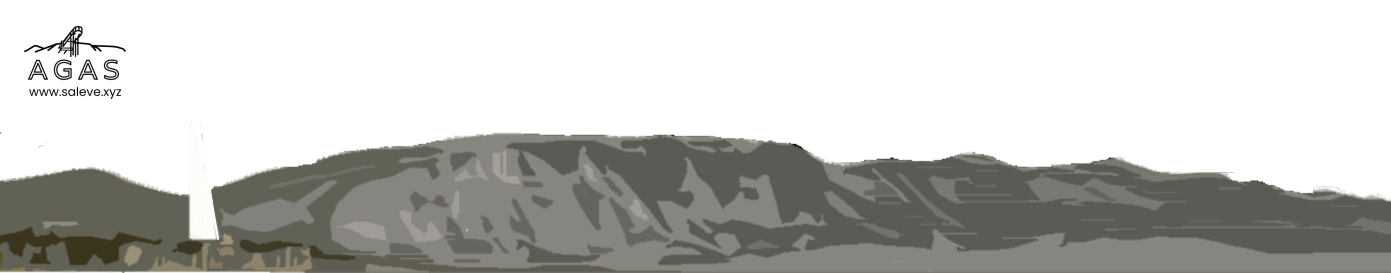
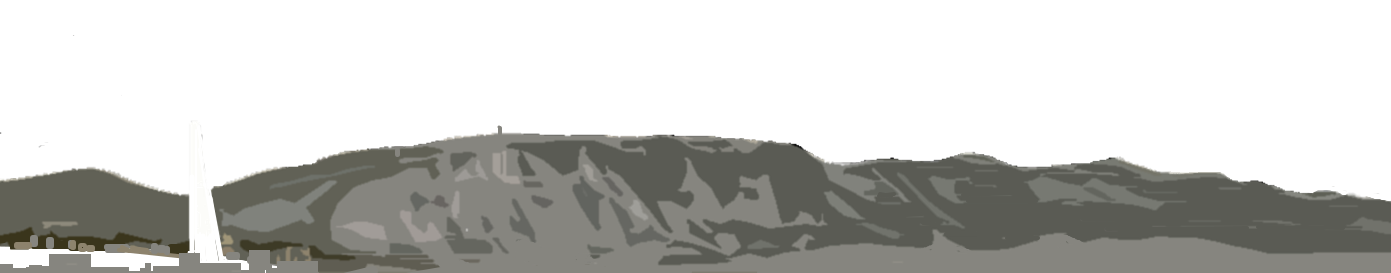
Fix nav, links, image (ctd)

diff --git a/index.html b/index.html
@@ -13,7 +13,7 @@
 
 <div id="navbar">
     <div>
-        <a href="https://www.saleve.xyz">Association genevoise des amis du Salève</a>
+        <div title="Association genevoise des amis du Salève"><a href="index.html">A&nbsp;G&nbsp;A&nbsp;S</a></div>
         <div class="dropdown">
             <a href="saleve.html">Le Salève</a>
             <a href="association.html">L'Association</a>
@@ -23,7 +23,7 @@
 
 <div id="top">
 
-<img src="assets/saleve-banner3.png" alt="AGAS" style="width:100%; display:block;">
+<img src="assets/AGAS-banner.png" alt="AGAS" style="width:100%; display:block;">
 <h1>Bienvenue</h1>
     <p style="text-align:center; margin-top:30px;">
       <a href="english.html"><img src="assets/en.png" width="20" height="16" alt="EN "> Welcome</a><br>
@@ -33,7 +33,7 @@
 
       <h2>Randonnées pédestres gratuites au Salève</h2>
       <p>Tous les dimanches, les amoureux de randonnées pédestres se donnent rendez-vous 
-        à 10h00 <a href="https://maps.app.goo.gl/RwS1Cnwyc3q6vUXr6"> au terminus du bus 8</a> à Veyrier-Douane, 
+        à 10h00 <a href="https://maps.app.goo.gl/RwS1Cnwyc3q6vUXr6"> au terminus du bus 8 à Veyrier-Douane</a>, 
         à 100 mètres de la douane côté Suisse. Un responsable de l'Association Genevoise des Amis du Salève (AGAS) vous 
         y attend par tous les temps. Il n y a pas d'inscription préalable. 
 
@@ -47,13 +47,13 @@
       </p>
  
     <h3 id="nextMeeting"></h3>
-        <p>Départ à pied du point de RDV. Suivant le nombre de guides bénévoles présents, <a href="https://www.saleve.xyz/sentiers/">plusieurs itinéraires pourront être proposés</a>.
+        <p>Départ à pied du point de RDV. Suivant le nombre de guides bénévoles présents, <a href="saleve.html#sentiers">plusieurs itinéraires pourront être proposés</a>.
          Selon le circuit choisi, comptez 4-6 heures de marche, dont 2-3 heures de montée à un rythme soutenu 
          (au moins 800 mètres de dénivelé). Possibilité de descendre en <a href="https://www.telepherique-du-saleve.com">
          téléphérique</a>.  
         </p>
 
-    <h3>Randos alternatives</h3>
+    <h3 id="Alter-fr">Randos alternatives</h3>
         <p>Parfois nous organisons un rendez-vous supplémentaire pour explorer le sud du Salève, loin du téléphérique. 
         Ces sorties sont <strong>réservées aux randonneurs initiés qui ont déjà marché avec nous</strong>.
          Les détails sont confirmés ici 1-2 jours avant, selon la météo. 
@@ -77,16 +77,16 @@
         <i class="fa fa-envelope fa-stack-1x fa-inverse"></i>
         </span></a>
 
-        <a href="mailto:agas@saleve.xyz">
+        <a href="https://wa.me/41765034533">
         <span class="fa-stack fa-lg">
         <i class="fas fa-circle fa-stack-2x"></i>
         <i class="fa fa-whatsapp fa-stack-1x fa-inverse"></i>
         </span></a>
 
-        <a href="https://wa.me/41765034533">
+        <a href="https://t.me/SaleveOne">
         <span class="fa-stack fa-lg">
         <i class="fas fa-circle fa-stack-2x"></i>
-        <i class="fa fa-envelope fa-stack-1x fa-inverse"></i>
+        <i class="fab fa-telegram-plane fa-stack-1x fa-inverse"></i>
         </span></a>
 
         <a href="https://www.facebook.com/LesAmisduSaleve">

diff --git a/english.html b/english.html
@@ -13,7 +13,7 @@
 
 <div id="navbar">
     <div>
-        <a href="index.html">Association genevoise des amis du Salève</a>
+        <div title="Association genevoise des amis du Salève"><a href="index.html">A&nbsp;G&nbsp;A&nbsp;S</a></div>
         <div class="dropdown">
             <a href="saleve.html">Le Salève</a>
             <a href="association.html">L'association</a>
@@ -31,7 +31,8 @@
       <a href="espagnol.html"><img src="assets/es.png" width="20" height="16" alt="ES "> Benvenidos</a>
 
       <h2>Free hikes on the Salève</h2>
-      <p>Every Sunday, we meet at <a href="https://www.saleve.xyz/infos-pratiques/">10:00 am at the terminus of bus 8 in Veyrier-Douane</a>, 
+      <p>Every Sunday, we meet at 10:00 am <a href="https://maps.app.goo.gl/RwS1Cnwyc3q6vUXr6">
+        at the terminus of bus 8 in Veyrier-Douane</a>, 
       100 meters from the border on the Swiss side. A representative of the Association Genevoise des Amis du Salève 
       (AGAS) will be waiting for you in any weather. No need to sign up in advance, just come.</p>
       
@@ -45,7 +46,7 @@
       
       <h3 id="nextMeeting"></h3>
       <p>Departure on foot from the meeting point. Depending on the number of volunteer 
-      guides present, <a href="sentiers.html">several itineraries may be proposed.</a> Depending on the chosen circuit, 
+      guides present, <a href="saleve.html#sentiers">several itineraries may be proposed.</a> Depending on the chosen circuit, 
       expect 4-6 hours of walking, including 2-3 hours of ascent at a steady pace (800 meters of altitude difference). 
       Possibility to get down by <a href="https://www.telepherique-du-saleve.com/en">cable car</a>. 
        </p>
@@ -77,16 +78,16 @@
         <i class="fa fa-envelope fa-stack-1x fa-inverse"></i>
         </span></a>
 
-        <a href="mailto:agas@saleve.xyz">
+        <a href="https://wa.me/41765034533">
         <span class="fa-stack fa-lg">
         <i class="fas fa-circle fa-stack-2x"></i>
         <i class="fa fa-whatsapp fa-stack-1x fa-inverse"></i>
         </span></a>
 
-        <a href="https://wa.me/41765034533">
+        <a href="https://t.me/SaleveOne">
         <span class="fa-stack fa-lg">
         <i class="fas fa-circle fa-stack-2x"></i>
-        <i class="fa fa-envelope fa-stack-1x fa-inverse"></i>
+        <i class="fab fa-telegram-plane fa-stack-1x fa-inverse"></i>
         </span></a>
 
         <a href="https://www.facebook.com/LesAmisduSaleve">

diff --git a/espagnol.html b/espagnol.html
@@ -13,7 +13,7 @@
 
 <div id="navbar">
     <div>
-        <a href="index.html">Association genevoise des amis du Salève</a>
+        <div title="Association genevoise des amis du Salève"><a href="index.html">A&nbsp;G&nbsp;A&nbsp;S</a></div>
         <div class="dropdown">
             <a href="saleve.html">Le Salève</a>
             <a href="association.html">L'association</a>
@@ -31,7 +31,7 @@
     </p>
 
   <h2>Excursiones gratuitas al Salève</h2>
-  <p>Todos los domingos nos reunimos a las 10:00h al terminal del autobús 8 en Veyrier-Douane, 
+  <p>Todos los domingos nos reunimos a las 10:00h <a href="https://maps.app.goo.gl/RwS1Cnwyc3q6vUXr6">al terminal del autobús 8 en Veyrier-Douane</a>, 
     a 100 metros de la frontera, en el lado suizo. Un representante de la Association Genevoise des Amis du Salève (AGAS) 
       le estará esperando haga el tiempo que haga. </p>
 
@@ -47,7 +47,7 @@
   <h3 id="nextMeeting"></h3>
 
   <p>Salida a pie desde el punto de encuentro. Dependiendo del número de guías voluntarios presentes, 
-    <a href="https://www.saleve.xyz/sentiers/">se pueden ofrecer varias rutas.</a>
+    <a href="saleve.html#sentiers">se pueden ofrecer varias rutas.</a>
     Contar entre 4 y 6 horas de marcha (de las cuales entre 2 y 3 horas de subida - 800 m de desnivel).
     Posibilidad de bajar en <a href="https://www.telepherique-du-saleve.com/en">teleférico</a>. 
     </p>
@@ -78,16 +78,16 @@
         <i class="fa fa-envelope fa-stack-1x fa-inverse"></i>
         </span></a>
 
-        <a href="mailto:agas@saleve.xyz">
+        <a href="https://wa.me/41765034533">
         <span class="fa-stack fa-lg">
         <i class="fas fa-circle fa-stack-2x"></i>
         <i class="fa fa-whatsapp fa-stack-1x fa-inverse"></i>
         </span></a>
 
-        <a href="https://wa.me/41765034533">
+        <a href="https://t.me/SaleveOne">
         <span class="fa-stack fa-lg">
         <i class="fas fa-circle fa-stack-2x"></i>
-        <i class="fa fa-envelope fa-stack-1x fa-inverse"></i>
+        <i class="fab fa-telegram-plane fa-stack-1x fa-inverse"></i>
         </span></a>
 
         <a href="https://www.facebook.com/LesAmisduSaleve">

diff --git a/deutsch.html b/deutsch.html
@@ -13,7 +13,7 @@
 
 <div id="navbar">
     <div>
-        <a href="index.html">Association genevoise des amis du Salève</a>
+        <div title="Association genevoise des amis du Salève"><a href="index.html">A&nbsp;G&nbsp;A&nbsp;S</a></div>
         <div class="dropdown">
             <a href="saleve.html">Le Salève</a>
             <a href="association.html">L'association</a>
@@ -34,7 +34,7 @@
 
   <h2>Gratis Bergwanderungen auf dem Salève</h2>
 
-  <p>Jeden Sonntag treffen wir uns um <a href="https://www.saleve.xyz/infos-pratiques/">10:00 Uhr an der Endhaltestelle der Buslinie 8 in Veyrier-Douane</a>, 
+  <p>Jeden Sonntag treffen wir uns um 10:00 Uhr an der Endhaltestelle der Buslinie 8 in Veyrier-Douane</a>, 
     100 Meter von der Grenze auf der Schweizer Seite. Ein Verantwortlicher des Genfer Vereins 
     Association Genevoise des Amis du Salève (AGAS) erwartet euch dort bei jedem Wetter. Anmeldung nicht erforderlich.</p>
 
@@ -48,7 +48,7 @@
 
   <h3 id="nextMeeting"></h3>
   <p>Aufbruch zu Fuss vom Treffpunkt. Je nach Anzahl der anwesenden freiwilligen Guides können 
-  <a href="/sentiers/">mehrere Routen vorgeschlagen werden.</a>
+  <a href="saleve.html#sentiers">mehrere Routen vorgeschlagen werden.</a>
   Je nach gewählter Route dauert die Wanderung 4-6 Stunden, davon 3 Stunden bergauf im stetigen Rhythmus 
   (800 Meter Höhenunterschied). Abstieg zu Fuss oder per Seilbahn.</p>
 
@@ -78,16 +78,16 @@
         <i class="fa fa-envelope fa-stack-1x fa-inverse"></i>
         </span></a>
 
-        <a href="mailto:agas@saleve.xyz">
+        <a href="https://wa.me/41765034533">
         <span class="fa-stack fa-lg">
         <i class="fas fa-circle fa-stack-2x"></i>
         <i class="fa fa-whatsapp fa-stack-1x fa-inverse"></i>
         </span></a>
 
-        <a href="https://wa.me/41765034533">
+        <a href="https://t.me/SaleveOne">
         <span class="fa-stack fa-lg">
         <i class="fas fa-circle fa-stack-2x"></i>
-        <i class="fa fa-envelope fa-stack-1x fa-inverse"></i>
+        <i class="fab fa-telegram-plane fa-stack-1x fa-inverse"></i>
         </span></a>
 
         <a href="https://www.facebook.com/LesAmisduSaleve">

diff --git a/association.html b/association.html
@@ -13,7 +13,7 @@
 
     <div id="navbar">
         <div>
-            <a href="index.html">&#9664 Association genevoise des amis du Salève (AGAS)</a>
+            <div title="Association genevoise des amis du Salève"><a href="index.html">&#9664&nbsp;A&nbsp;G&nbsp;A&nbsp;S</a></div>
             <div class="dropdown">
                 <a href="saleve.html">Le Salève</a>
                 <a href="association.html">L'association</a>
@@ -79,7 +79,7 @@
              <p>Un grand merci aussi à nos membres et nos donneurs. C'est grâce à vous que l'AGAS a ses propres ressources, 
                 et peut ainsi demander un subside pour les compléter. Voici où nous en sommes:</p>
             <p>
-            <iframe width="500" height="auto" seamless frameborder="0" scrolling="no" src="https://docs.google.com/spreadsheets/d/e/2PACX-1vSs-DIgl9wCvINnDWGMpdkjxUiB32TePteXFaQIjX-WdHAr_yiGvQZIV0-_B-F6NuprT7DtcKHzv4HI/pubchart?oid=422951329&amp;format=image"></iframe>
+            <iframe class="center" height="400px" frameborder="0" src="https://docs.google.com/spreadsheets/d/e/2PACX-1vSs-DIgl9wCvINnDWGMpdkjxUiB32TePteXFaQIjX-WdHAr_yiGvQZIV0-_B-F6NuprT7DtcKHzv4HI/pubchart?oid=422951329&amp;format=image"></iframe>
             </p>
 </div>
 
@@ -92,16 +92,16 @@
         <i class="fa fa-envelope fa-stack-1x fa-inverse"></i>
         </span></a>
 
-        <a href="mailto:agas@saleve.xyz">
+        <a href="https://wa.me/41765034533">
         <span class="fa-stack fa-lg">
         <i class="fas fa-circle fa-stack-2x"></i>
         <i class="fa fa-whatsapp fa-stack-1x fa-inverse"></i>
         </span></a>
 
-        <a href="https://wa.me/41765034533">
+        <a href="https://t.me/SaleveOne">
         <span class="fa-stack fa-lg">
         <i class="fas fa-circle fa-stack-2x"></i>
-        <i class="fa fa-envelope fa-stack-1x fa-inverse"></i>
+        <i class="fab fa-telegram-plane fa-stack-1x fa-inverse"></i>
         </span></a>
 
         <a href="https://www.facebook.com/LesAmisduSaleve">

diff --git a/saleve.html b/saleve.html
@@ -13,7 +13,7 @@
 
     <div id="navbar">
         <div>
-            <a href="index.html">&#9664 Association genevoise des amis du Salève (AGAS)</a>
+            <div title="Association genevoise des amis du Salève"><a href="index.html">&#9664&nbsp;A&nbsp;G&nbsp;A&nbsp;S</a></div>
             <div class="dropdown">
                 <a href="saleve.html">Le Salève</a>
                 <a href="association.html">L'Association</a>
@@ -73,7 +73,7 @@
 
     <p>Suivant la demande, la météo, le niveau des marcheurs et la disponibilité des bénévoles, 
         nous proposons d'autres itinéraires depuis Veyrier, ou même depuis un autre départ 
-        (<a href="index.html#Sud">annoncé 1-2 jours avant ici</a>). Un dessin des chemins que nous avons parcourus en 2025 se trouve 
+        (<a href="index.html#Alter-fr">annoncé 1-2 jours avant ici</a>). Un dessin des chemins que nous avons parcourus en 2025 se trouve 
         à la fin de notre rapport annuel.</p>
    
     <h2 id="autres-randos">Autres randos</h2>
@@ -100,16 +100,16 @@
         <i class="fa fa-envelope fa-stack-1x fa-inverse"></i>
         </span></a>
 
-        <a href="mailto:agas@saleve.xyz">
+        <a href="https://wa.me/41765034533">
         <span class="fa-stack fa-lg">
         <i class="fas fa-circle fa-stack-2x"></i>
         <i class="fa fa-whatsapp fa-stack-1x fa-inverse"></i>
         </span></a>
 
-        <a href="https://wa.me/41765034533">
+        <a href="https://t.me/SaleveOne">
         <span class="fa-stack fa-lg">
         <i class="fas fa-circle fa-stack-2x"></i>
-        <i class="fa fa-envelope fa-stack-1x fa-inverse"></i>
+        <i class="fab fa-telegram-plane fa-stack-1x fa-inverse"></i>
         </span></a>
 
         <a href="https://www.facebook.com/LesAmisduSaleve">

diff --git a/styles.css b/styles.css
@@ -5,7 +5,7 @@
 }
 
 #navbar {
-    padding: 8px 5px; 
+    padding: 0; 
     background-color: #e6e6e6;
     text-transform:uppercase;
     font-weight: 600;
@@ -13,7 +13,7 @@
     width: 100%;
     position: sticky;
     top: 0;
-    height: 75px;
+    height: 50px;
 } 
 
 #navbar a {
@@ -43,7 +43,7 @@
     text-align: center;
     font-weight: 900;
     position: sticky;
-    top: 75px;
+    top: 50px;
     scroll-snap-type: y mandatory;
 }
 
